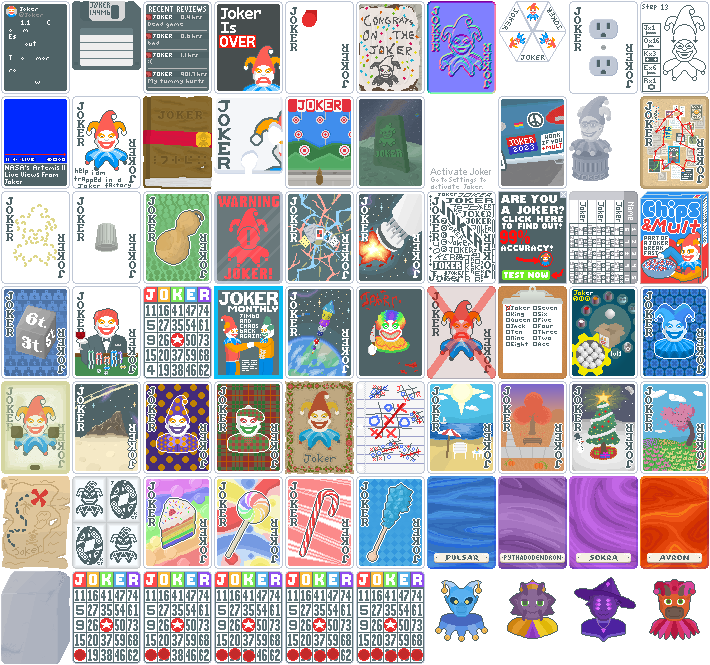
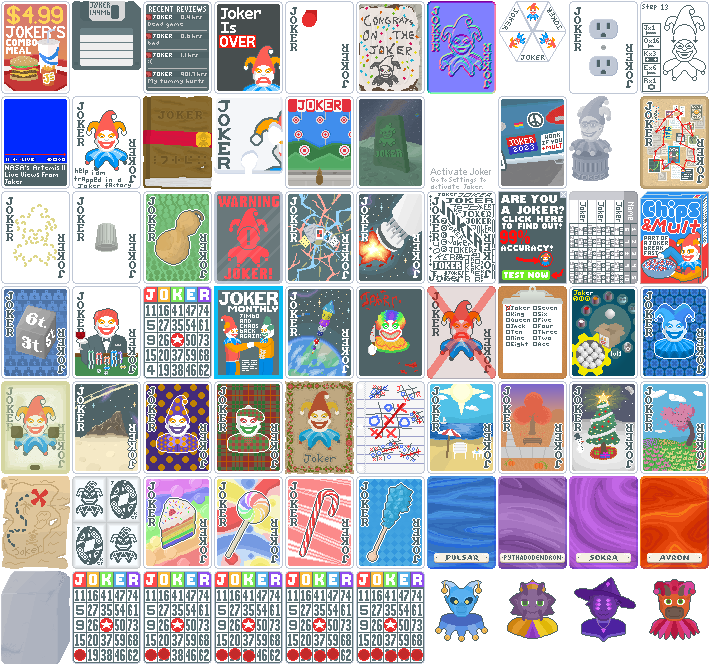
added Combo Meal and updated readme.md

Changed region(s): [[0.0, 0.0, 0.093, 0.1504]]

diff --git a/README.md b/README.md
@@ -1,7 +1,7 @@
 # Nebula
 Vaugely balanced mod for Balatro. Originally intended as art practice (it might be more than that now)
 
-Not ready for a proper release yet, only about 60% of the cards are finished (art is pretty much finished though)
+Not ready for a proper release yet, 83/85 cards are finished
 
 Comes with a bit over 60 jokers and a new Dice consumable set + related items
 Generally attempted to add more jokers that encourage playing hands other than Pair, though there are exceptions
